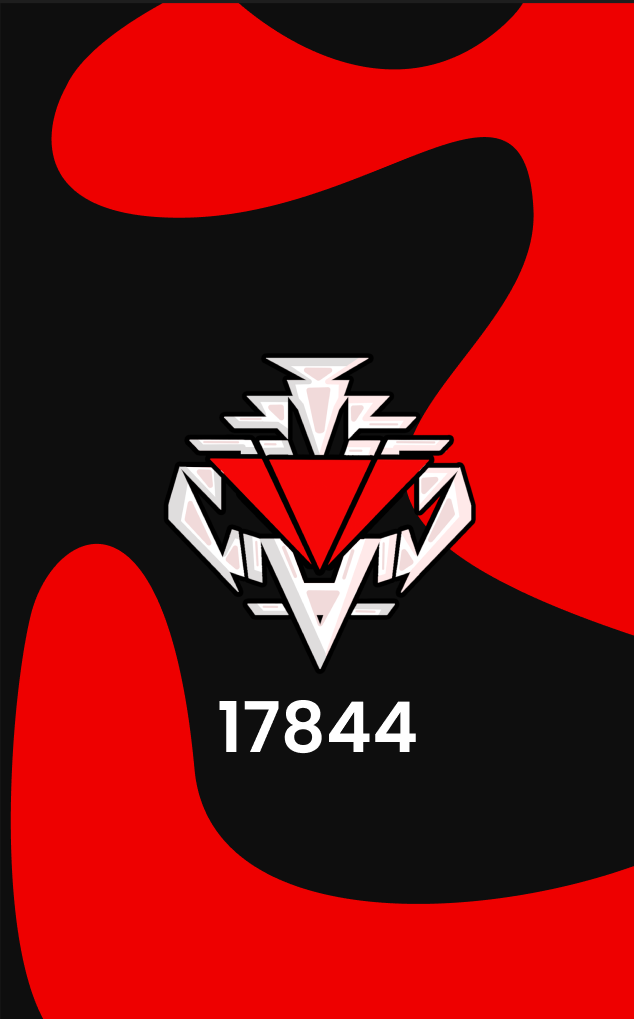
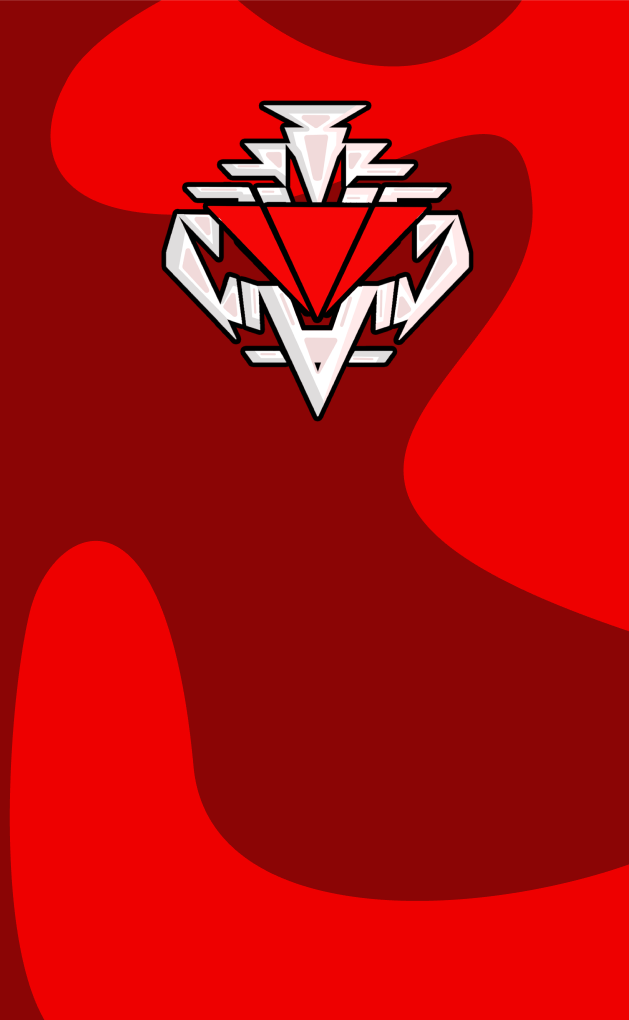
App

diff --git a/app.css b/app.css
@@ -6,17 +6,21 @@
 }
 
 body{
+    background-image: url("./images/fundal_app.png");
+    background-repeat: no-repeat;
+    background-size: cover;
+    background-position: top;
+    backdrop-filter: blur(0px);
+}
+
+.content{
     display: flex;
-    justify-content: center;
+    justify-content: space-evenly;
+    flex-direction: column;
     align-items: center;
     align-content: center;
     height: 100vh;
     width: 100vw;
-    background-image: url("./images/fundal_app.png");
-    background-repeat: no-repeat;
-    background-size: cover;
-    background-position: center;
-    backdrop-filter: blur(0px);
 }
 
 #challange{
@@ -26,14 +30,15 @@ body{
     flex-direction: column;
     align-items: center;
     color: black;
-    padding: 10px;
-    background-color: rgba(255,255,255,.95);
+    padding: 0px 10px;
     width: 100vw;
+    background-color: rgba(255,255,255,.9);
 }
 
 #challange h2{
-    margin-bottom: 30px;
+    margin-bottom: 20px;
     font-size: 30px;
+    text-shadow: 1px 0px 1px rgba(255,255,255,.2);
 }
 
 #challange_text{
@@ -46,8 +51,9 @@ body{
     justify-content: center;
     align-items: center;
     flex-direction: column;
-    background-color: rgba(255,255,255,.95);
-    padding: 15px;
+    background-color: rgba(255,255,255,.9);
+    padding: 0px 15px;
+    height: 50vh;
     width: 100vw;
 }
 
@@ -65,4 +71,26 @@ body{
     color: white;
     padding: 10px 20px;
     border: 2px solid black;
+}
+
+.umplutura{
+    width: 100vw;
+    height: 50vh;
+    display: none;
+}
+
+@media only screen and (max-width: 500px) {
+    body{
+        background-position: center;
+    }
+    .content{
+        background-image: linear-gradient(to top, rgba(255,255,255,1), rgba(0,0,0,0));
+    }
+    #formular, #challange{
+        height: 50vh;
+        background-color: transparent;
+    }
+    .umplutura{
+        display: block;
+    }
 }

diff --git a/challengeApp.html b/challengeApp.html
@@ -8,6 +8,10 @@
     <title>Challenge App</title>
 </head>
 <body onload="showCookie()">
+    <div class="content">
+    <div class="umplutura">
+
+    </div>
     <form id="formular">
         <input type="text" placeholder="First name" id="first_name" name="first_name">
         <input type="text" placeholder="Team name" id="team_name" name="team_name">
@@ -16,6 +20,7 @@
     <div class="challange" id="challange">
         <h2 style="color: red;">Challenge</h2>
         <p id="challange_text"></p>
+    </div>
     </div>
 </body>
 <script>
@@ -28,7 +33,7 @@
 
     console.log(document.cookie);
 
-    document.cookie = "text=; expires=Thu, 01 Jan 1970 00:00:00 UTC; path=/";
+    //document.cookie = "text=; expires=Thu, 01 Jan 1970 00:00:00 UTC; path=/";
 
     let c = new Array(Challange);
 
